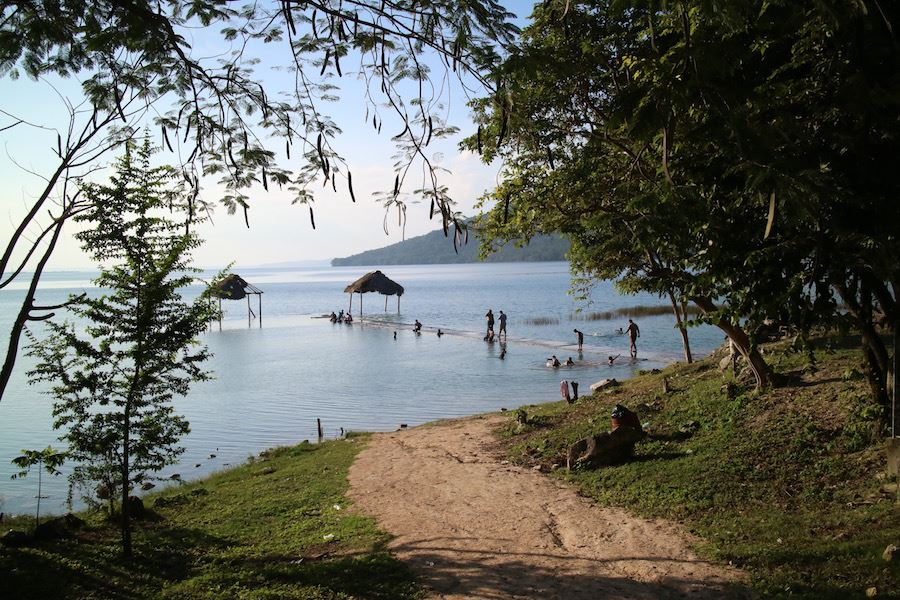
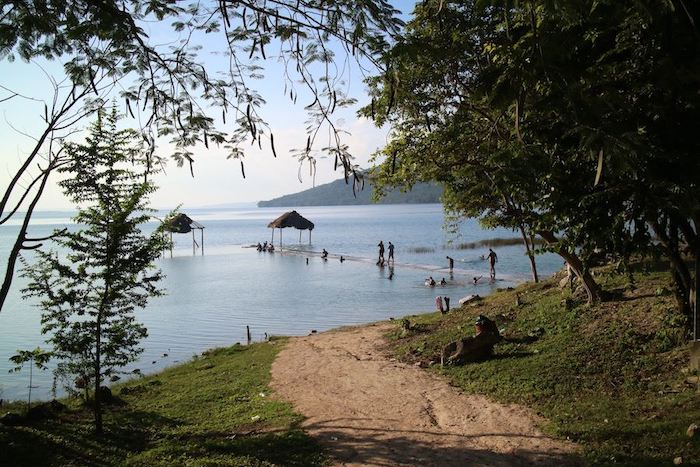
사진용량 수정

diff --git a/README.md b/README.md
@@ -1,6 +1,8 @@
 # 홈페이지
 [https://janeisyoung.com](https://janeisyoung.com)
 
+## 업로드 전에 주의!
+이미지 용량 줄이기/긴쪽 700 기준/ 700*525 (가로*세로)/ 위로 길쭉한 사진 사이즈도 마찬가지 
 ## 사용법
 일단 iTerm 프로그램을 실행시킨다. (스폿라이트 iTerm 으로 검색해서 실행)
 
